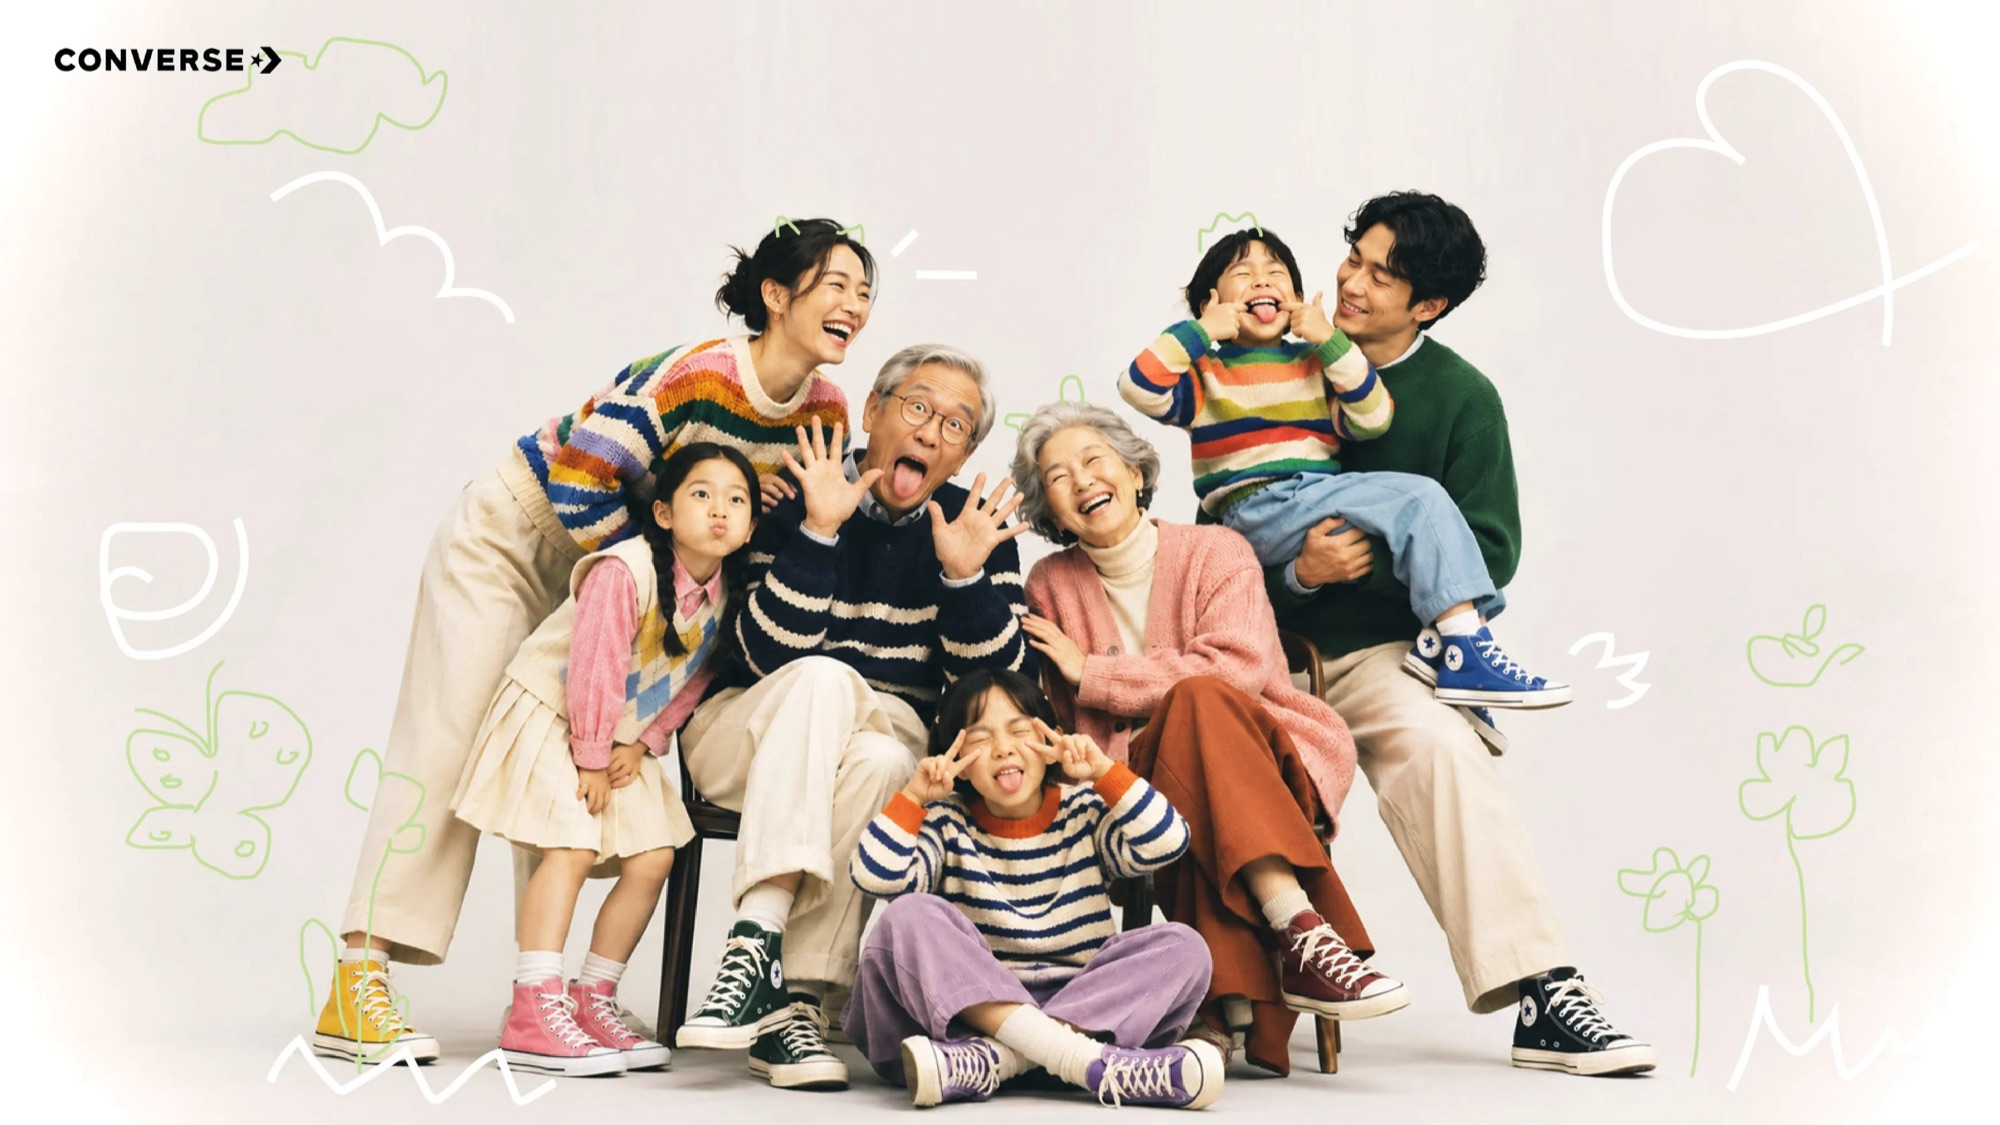
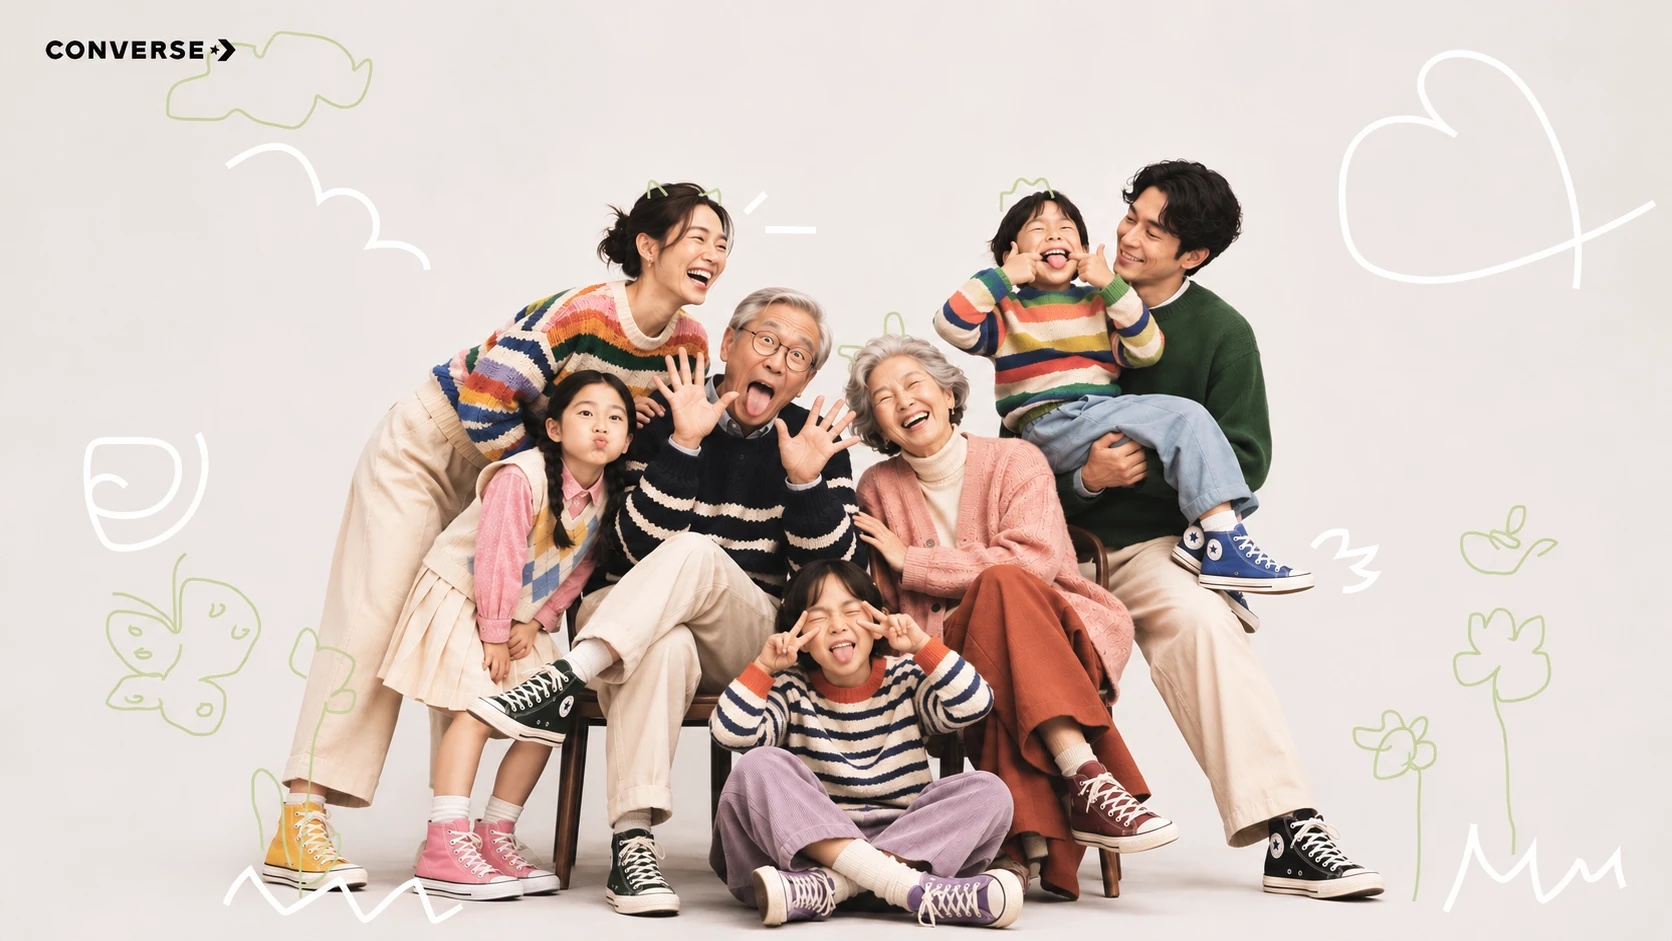
가족사진: Converse 대표 이미지 교체

diff --git a/index.html b/index.html
@@ -323,7 +323,7 @@ footer h2{font-size:clamp(40px,6vw,72px);font-weight:700;letter-spacing:-.035em;
       <a href="#apple" style="order:1"><img src="img/works/apple-watch.jpg" alt=""><span>Apple Watch Bands</span></a>
     </div>
     <div class="col">
-      <a href="#family" style="order:2"><img src="img/works/family-converse.jpg" alt=""><span>가족사진 — Converse</span></a>
+      <a href="#family" style="order:2"><img src="img/works/family-converse.jpg?v=2" alt=""><span>가족사진 — Converse</span></a>
     </div>
   </nav>
   <h2 class="label">Poster</h2>
@@ -357,7 +357,7 @@ footer h2{font-size:clamp(40px,6vw,72px);font-weight:700;letter-spacing:-.035em;
       <h2 class="label">Commercial</h2>
       <ul>
         <li><a class="row" href="#apple" data-img="img/works/apple-watch.jpg"><b>Apple Watch Bands</b><span>Commercial film</span><span>2026</span><img src="img/works/apple-watch.jpg" alt="" loading="lazy"></a></li>
-        <li><a class="row" href="#family" data-img="img/works/family-converse.jpg"><b>가족사진 — Converse</b><span>Narrative ad</span><span>2026</span><img src="img/works/family-converse.jpg" alt="" loading="lazy"></a></li>
+        <li><a class="row" href="#family" data-img="img/works/family-converse.jpg?v=2"><b>가족사진 — Converse</b><span>Narrative ad</span><span>2026</span><img src="img/works/family-converse.jpg?v=2" alt="" loading="lazy"></a></li>
       </ul>
       <h2 class="label">Poster</h2>
       <ul>
@@ -612,7 +612,7 @@ footer h2{font-size:clamp(40px,6vw,72px);font-weight:700;letter-spacing:-.035em;
   </div>
   <div class="sp">
     <div class="side">
-  <div class="media" id="family-short"><video src="media/converse-10s.mp4?v=2" controls playsinline preload="none" poster="img/works/family-converse.jpg"></video></div>
+  <div class="media" id="family-short"><video src="media/converse-10s.mp4?v=2" controls playsinline preload="none" poster="img/works/family-converse.jpg?v=2"></video></div>
     <p class="cap">10초 영상 · 흑백 발끝에서 색이 번지고, 손그림과 함께 가족사진으로</p>
     <div class="grid pair">
       <img src="img/works/family-shoes.jpg" alt="발 클로즈업 컨셉샷"><img src="img/works/family-group.jpg" alt="바닥 높이 단체 컷 컨셉샷">
